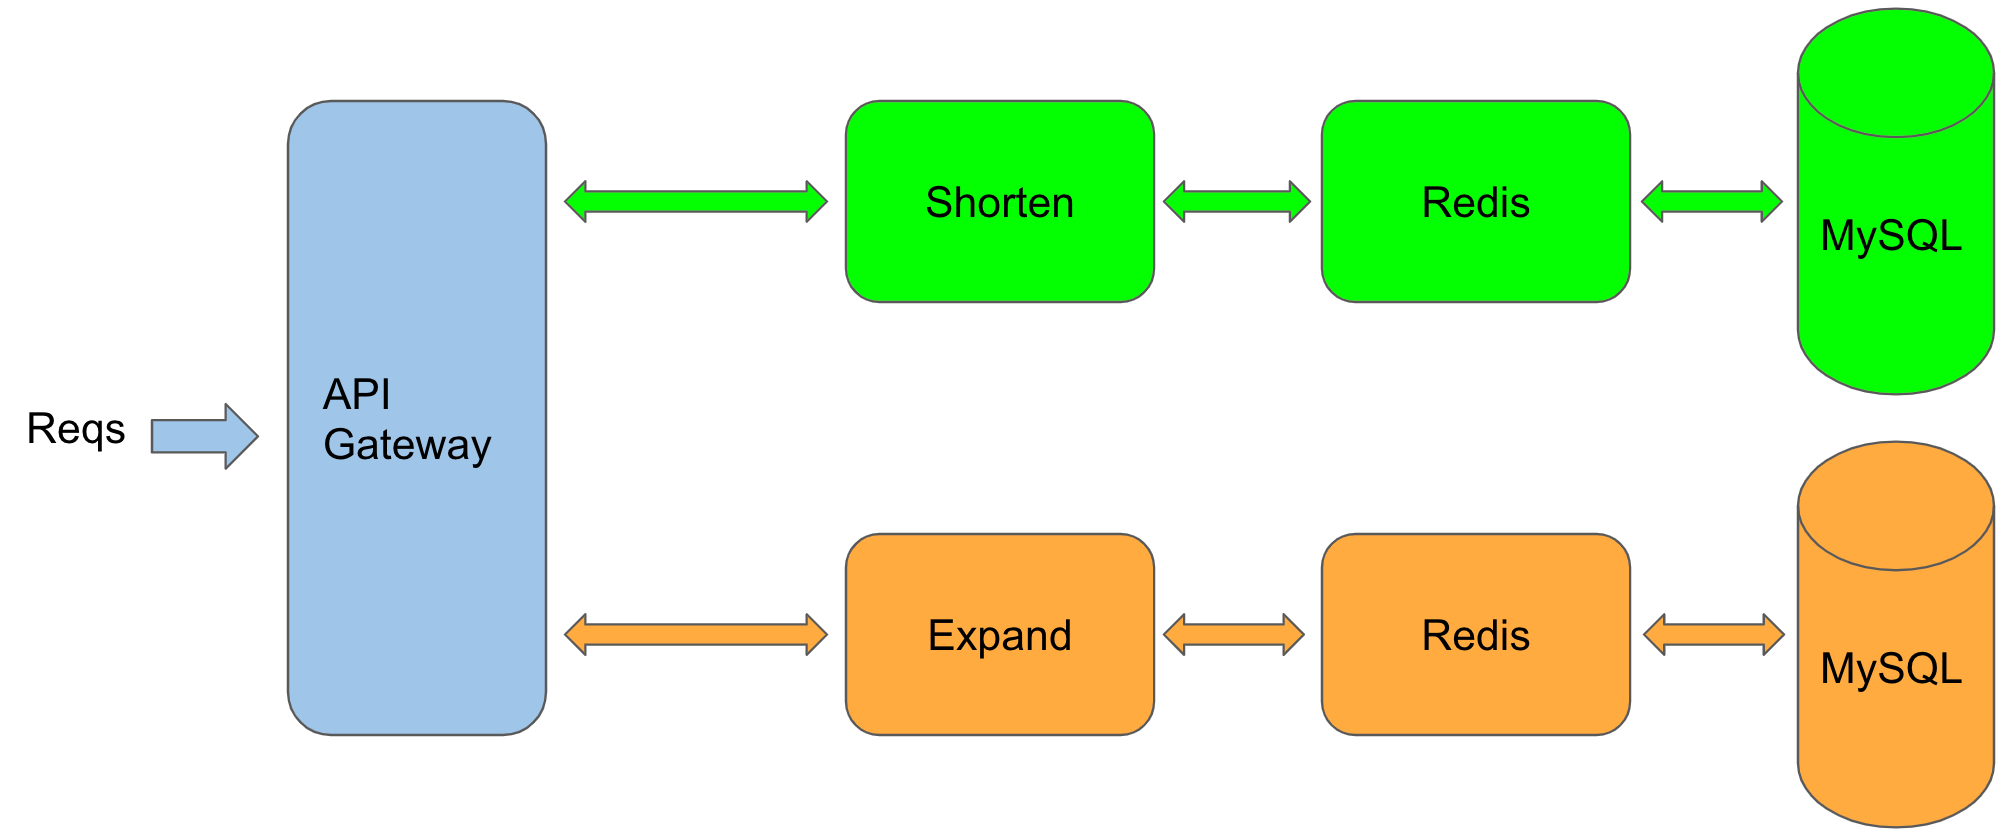
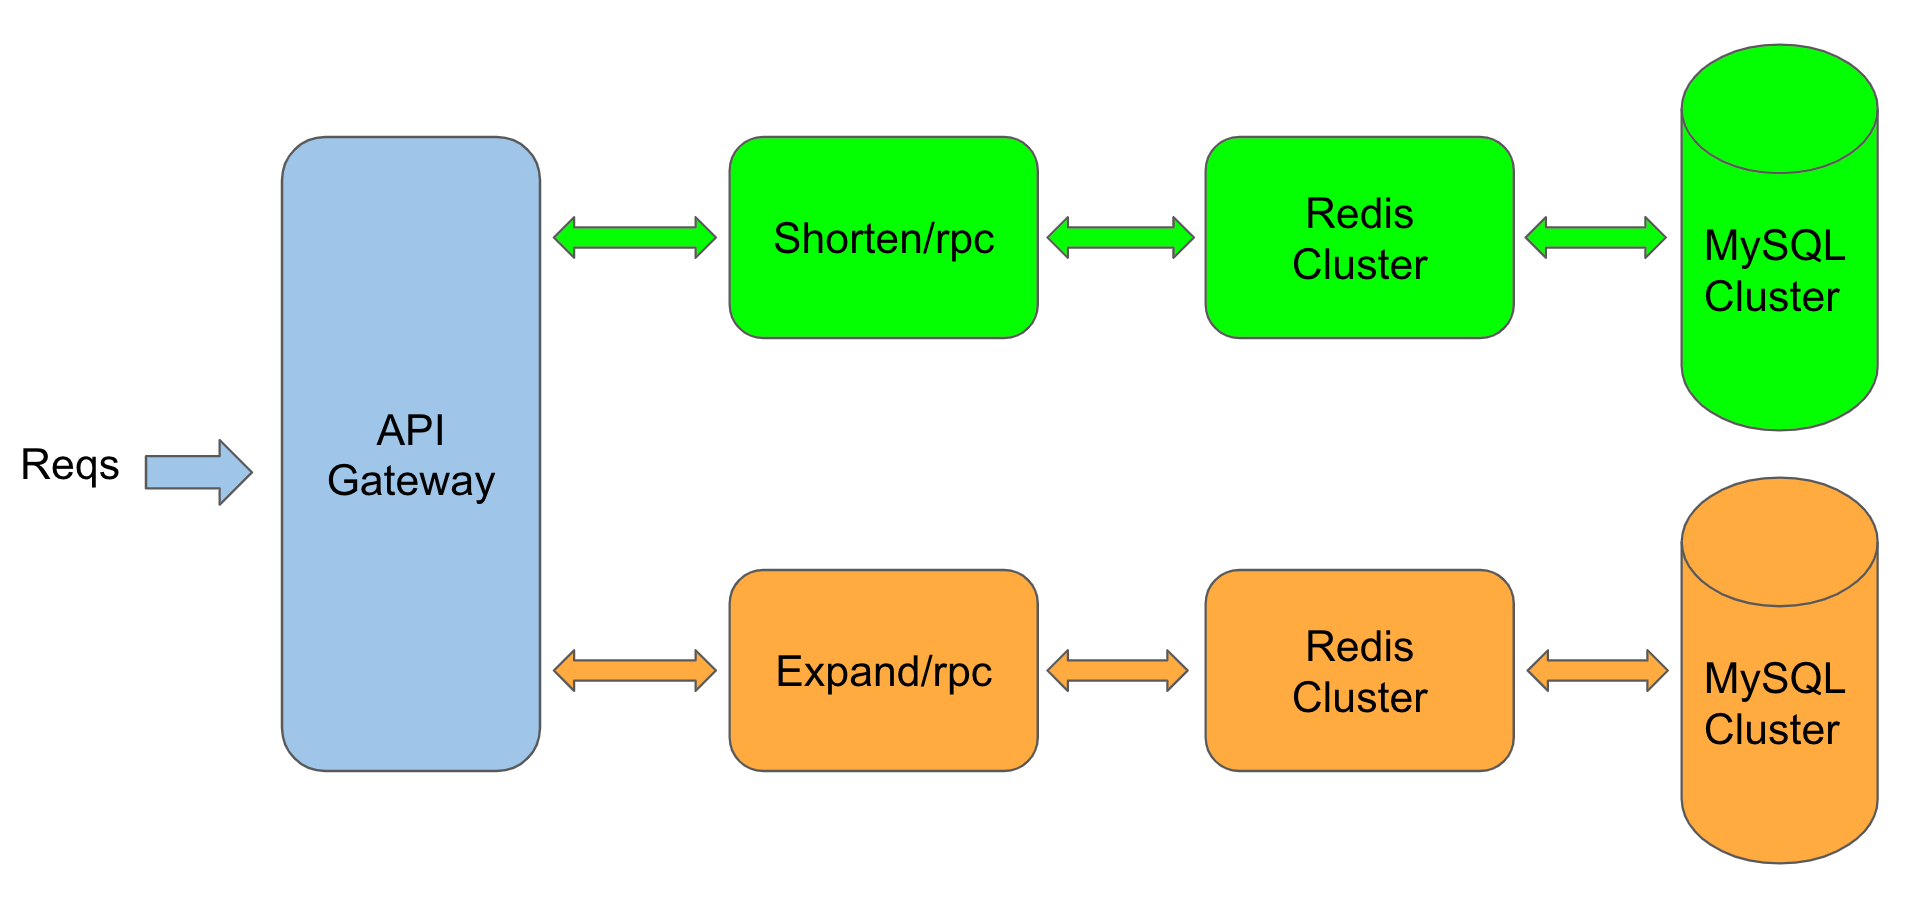
refine goctl rpc generator

Changed region(s): [[0.0, 0.0, 0.9969, 0.9952]]

diff --git a/tools/goctl/rpc/gen/genetc.go b/tools/goctl/rpc/gen/genetc.go
@@ -1,0 +1,30 @@
+package gogen
+
+import (
+	"fmt"
+	"path/filepath"
+
+	"github.com/tal-tech/go-zero/tools/goctl/util"
+)
+
+const etcTemplate = `Name: {{.serviceName}}.rpc
+Log:
+  Mode: console
+ListenOn: 127.0.0.1:8080
+Etcd:
+  Hosts:
+  - 127.0.0.1:6379
+  Key: {{.serviceName}}.rpc
+`
+
+func (g *defaultRpcGenerator) genEtc() error {
+	etdDir := g.dirM[dirEtc]
+	fileName := filepath.Join(etdDir, fmt.Sprintf("%v.yaml", g.Ctx.ServiceName.Lower()))
+	if util.FileExists(fileName) {
+		return nil
+	}
+
+	return util.With("etc").Parse(etcTemplate).SaveTo(map[string]interface{}{
+		"serviceName": g.Ctx.ServiceName.Lower(),
+	}, fileName, false)
+}

diff --git a/tools/goctl/rpc/ctx/project.go b/tools/goctl/rpc/ctx/project.go
@@ -16,9 +16,7 @@ import (
 	"github.com/tal-tech/go-zero/tools/goctl/util/console"
 )
 
-var (
-	errProtobufNotFound = errors.New("github.com/golang/protobuf is not found,please ensure you has already [go get github.com/golang/protobuf]")
-)
+var errProtobufNotFound = errors.New("github.com/golang/protobuf is not found,please ensure you has already [go get github.com/golang/protobuf]")
 
 const (
 	constGo          = "go"
@@ -51,7 +49,7 @@ type (
 )
 
 func prepare(log console.Console) (*Project, error) {
-	log.Info("check go env ...")
+	log.Info("checking go env...")
 	_, err := exec.LookPath(constGo)
 	if err != nil {
 		return nil, err
@@ -106,11 +104,6 @@ func prepare(log console.Console) (*Project, error) {
 		}
 
 		module, err = matchModule(data)
-		if err != nil {
-			return nil, err
-		}
-
-		protobufModule, err = matchProtoBuf(data)
 		if err != nil {
 			return nil, err
 		}
@@ -180,21 +173,6 @@ func prepare(log console.Console) (*Project, error) {
 	}, nil
 }
 
-// github.com/golang/protobuf@{version}
-func matchProtoBuf(data []byte) (string, error) {
-	text := string(data)
-	re := regexp.MustCompile(`(?m)(github.com/golang/protobuf)\s+(v[0-9.]+)`)
-	matches := re.FindAllStringSubmatch(text, -1)
-	if len(matches) == 0 {
-		return "", errProtobufNotFound
-	}
-	groups := matches[0]
-	if len(groups) < 3 {
-		return "", errProtobufNotFound
-	}
-	return fmt.Sprintf("%s@%s", groups[1], groups[2]), nil
-}
-
 func matchModule(data []byte) (string, error) {
 	text := string(data)
 	re := regexp.MustCompile(`(?m)^\s*module\s+[a-z0-9/\-.]+$`)
@@ -204,5 +182,6 @@ func matchModule(data []byte) (string, error) {
 		index := strings.Index(target, "module")
 		return strings.TrimSpace(target[index+6:]), nil
 	}
+
 	return "", nil
 }

diff --git a/tools/goctl/goctl.go b/tools/goctl/goctl.go
@@ -4,8 +4,6 @@ import (
 	"fmt"
 	"os"
 
-	"github.com/urfave/cli"
-
 	"github.com/tal-tech/go-zero/core/logx"
 	"github.com/tal-tech/go-zero/tools/goctl/api/apigen"
 	"github.com/tal-tech/go-zero/tools/goctl/api/dartgen"
@@ -21,6 +19,7 @@ import (
 	"github.com/tal-tech/go-zero/tools/goctl/feature"
 	model "github.com/tal-tech/go-zero/tools/goctl/model/sql/command"
 	rpc "github.com/tal-tech/go-zero/tools/goctl/rpc/command"
+	"github.com/urfave/cli"
 )
 
 var (
@@ -196,7 +195,7 @@ var (
 			Subcommands: []cli.Command{
 				{
 					Name:  "template",
-					Usage: `generate proto template"`,
+					Usage: `generate proto template`,
 					Flags: []cli.Flag{
 						cli.StringFlag{
 							Name:  "out, o",
@@ -211,7 +210,7 @@ var (
 				},
 				{
 					Name:  "proto",
-					Usage: `generate rpc from proto"`,
+					Usage: `generate rpc from proto`,
 					Flags: []cli.Flag{
 						cli.StringFlag{
 							Name:  "src, s",
@@ -227,7 +226,7 @@ var (
 						},
 						cli.StringFlag{
 							Name:  "shared",
-							Usage: `the dir of the shared file,default path is "${pwd}/shared. [option]"`,
+							Usage: `the dir of the shared file,default path is "${pwd}/shared. [option]`,
 						},
 						cli.BoolFlag{
 							Name:  "idea",

diff --git a/tools/goctl/rpc/command/command.go b/tools/goctl/rpc/command/command.go
@@ -4,7 +4,7 @@ import (
 	"github.com/urfave/cli"
 
 	"github.com/tal-tech/go-zero/tools/goctl/rpc/ctx"
-	"github.com/tal-tech/go-zero/tools/goctl/rpc/goen"
+	"github.com/tal-tech/go-zero/tools/goctl/rpc/gen"
 )
 
 func Rpc(c *cli.Context) error {

diff --git a/tools/goctl/rpc/parser/pbast.go b/tools/goctl/rpc/parser/pbast.go
@@ -435,7 +435,7 @@ func (a *PbAst) GenTypesCode() (string, error) {
 		types = append(types, structCode)
 	}
 	buffer, err := util.With("type").Parse(typeTemplate).Execute(map[string]interface{}{
-		"types": strings.Join(types, "\n"),
+		"types": strings.Join(types, "\n\n"),
 	})
 	if err != nil {
 		return "", err

diff --git a/tools/goctl/util/head.go b/tools/goctl/util/head.go
@@ -1,6 +1,6 @@
 package util
 
-var headTemplate = `// Code generated by goctl. DO NOT EDIT.
+var headTemplate = `// Code generated by goctl. DO NOT EDIT!
 // Source: {{.source}}`
 
 func GetHead(source string) string {

diff --git a/doc/shorturl.md b/doc/shorturl.md
@@ -102,7 +102,7 @@
 * 测试API Gateway服务
 
   ```shell
-  curl -i "http://localhost:8888/shorten?url=a"
+  curl -i "http://localhost:8888/shorten?url=http://www.xiaoheiban.cn"
   ```
 
   返回如下：
@@ -116,6 +116,8 @@
   {"shortUrl":""}
   ```
 
+  可以看到我们API Gateway其实啥也没干，就返回了个空值，接下来我们会在rpc服务里实现业务逻辑
+
 * 可以修改`internal/svc/servicecontext.go`来传递服务依赖（如果需要）
 
 * 实现逻辑可以修改`internal/logic`下的对应文件
@@ -125,11 +127,65 @@
 ## 4. 编写shorten rpc服务（未完）
 
 * 编写`shorten.proto`文件
+
+  可以通过命令生成proto文件模板
+
+  ```shell
+  goctl rpc template -o shorten.proto
+  ```
+
+  修改后文件内容如下：
+
+  ```protobuf
+  syntax = "proto3";
+  
+  package shorten;
+  
+  message shortenReq {
+      string url = 1;
+  }
+  
+  message shortenResp {
+      string key = 1;
+  }
+  
+  service shortener {
+      rpc shorten(shortenReq) returns(shortenResp);
+  }
+  ```
+
 * 用`goctl`生成rpc代码
 
 ## 5. 编写expand rpc服务（未完）
 
 * 编写`expand.proto`文件
+
+  可以通过命令生成proto文件模板
+
+  ```shell
+  goctl rpc template -o expand.proto
+  ```
+
+  修改后文件内容如下：
+
+  ```protobuf
+  syntax = "proto3";
+  
+  package expand;
+  
+  message expandReq {
+      string key = 1;
+  }
+  
+  message expandResp {
+      string url = 1;
+  }
+  
+  service expander {
+      rpc expand(expandReq) returns(expandResp);
+  }
+  ```
+
 * 用`goctl`生成rpc代码
 
 ## 6. 修改API Gateway代码调用shorten/expand rpc服务（未完）
@@ -148,6 +204,16 @@
     PRIMARY KEY(`id`),
     UNIQUE KEY `key_index`(`key`)
   ) ENGINE=InnoDB DEFAULT CHARSET=utf8mb4;
+  ```
+
+* 创建DB和table
+
+  ```sql
+  create database gozero;
+  ```
+
+  ```sql
+  source shorturl.sql;
   ```
 
 * 在`rpc/model`目录下执行如下命令生成CRUD+cache代码，`-c`表示使用`redis cache`
@@ -198,3 +264,9 @@
 ## 10. Benchmark（未完）
 
 ## 11. 总结（未完）
+
+可以看到go-zero不只是一个框架，更是一个建立在框架+工具基础上的，简化和规范了整个微服务构建的技术体系。
+
+我们一直强调**工具大于约定和文档**。
+
+另外，我们在保持简单的同时也尽可能把微服务治理的复杂度封装到了框架内部，极大的降低了开发人员的心智负担，使得业务开发得以快速推进。

diff --git a/tools/goctl/rpc/README.md b/tools/goctl/rpc/README.md
@@ -17,7 +17,7 @@ $ goctl rpc template -o=user.proto
 ```golang
 syntax = "proto3";
 
-package remoteuser;
+package remote;
 
 message Request {
   // 用户名
@@ -33,7 +33,7 @@ message Response {
   string gender = 2;
 }
 
-service User{
+service User {
   // 登录
   rpc Login(Request)returns(Response);
 }
@@ -82,17 +82,17 @@ user
 
 ### go mod 工程  
   对于`$ go version`不低于1.5版本的的工程，会优先寻找`$ go env GOMODCACHE`目录，如果没有则去`${GOPATH}`中查找（见下文）,而低于1.5版本的则会优先从`${GOPATH}/pkg/mod`目录下查找，否则也从`% GOPATH`中查找（见下文）
-  
+
 ### go path工程
   对于没有使用go mod的工程，则默认当作在`${GOPATH}`中处理（暂不支持用户自定义的GOPATH），而这种情况下则会默认从`${GOPATH}/src`中查找
-  
+
 > 注意： 
  * 对于以上两种工程如果没有在对应目录查找到`protoc-gen-go`则会提示相应错误，尽管`protoc-gen-go`可能在其他已经设置环境变量的目录中，这个将在后面版本进行优化。
  * 对于go mod工程，如果工程没有依赖`github.com/golang/protobuf`则需要提前引入。
- 
+
 ### 好处
 * 保证grpc代码生成规范的一致性
- 
+
 # 用法
 ```shell script
 $ goctl rpc proto -h
@@ -126,11 +126,11 @@ OPTIONS:
         ```
         则服务名称亦为user，而非proto所在文件夹名称了，这里推荐使用这种结构，可以方便在同一个服务名下建立不同类型的服务(api、rpc、mq等)，便于代码管理与维护。
     * --shared 非必填，默认为$dir(xxx.proto)/shared，rpc client逻辑代码存放目录。
-        
+      
       > 注意：这里的shared文件夹名称将会是代码中的package名称。
     
     * --idea 非必填，是否为idea插件中执行，保留字段，终端执行可以忽略
-     
+    
 # 开发人员需要做什么
 
 关注业务代码编写，将重复性、与业务无关的工作交给goctl，生成好rpc服务代码后，开饭人员仅需要修改
@@ -146,7 +146,7 @@ OPTIONS:
 * proto不支持外部依赖包引入，message不支持inline
 * 目前main文件、shared文件、handler文件会被强制覆盖，而和开发人员手动需要编写的则不会覆盖生成，这一类在代码头部均有
     ```shell script
-    // Code generated by goctl. DO NOT EDIT.
+    // Code generated by goctl. DO NOT EDIT!
     // Source: xxx.proto
     ```
   的标识，请注意不要将也写业务性代码写在里面。